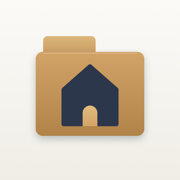
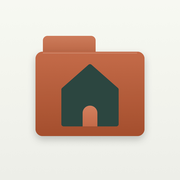
Match the site palette to the app (#7)
Paper F4F5EE, deep green ink 172C27, copper AA5730 for text/links/buttons; dark mode on the app's green-black base; theme-color tags and icons regenerated from the app's new icon. og.jpg and shots/*.jpg still show the old app UI and need recapturing.

Changed region(s): [[0.1944, 0.1944, 0.8056, 0.7778]]

diff --git a/site/assets/styles.css b/site/assets/styles.css
@@ -1,5 +1,5 @@
 /* Know What I Own — shared stylesheet.
-   Palette and motifs follow the app: paper + ink + brass, folder-tab cards,
+   Palette and motifs follow the app (and teamdrybox.com): paper + deep green ink + copper, folder-tab cards,
    dotted leader lines, a double rule under a total.
    Fonts are subsetted (Latin) OFL fonts self-hosted in ./fonts — no external requests. */
 
@@ -16,22 +16,22 @@
 
 :root {
   /* Light (default) — contrast ratios checked against WCAG AA */
-  --page: #F6F5F1;
+  --page: #F4F5EE;
   --card: #FFFFFF;
-  --ink: #1F2A38;          /* 13.3:1 on page */
-  --soft: #5B6875;         /* 5.2:1 on page, 5.7:1 on card */
-  --line: #DDD9CF;
-  --dots: #B7B1A2;         /* decorative only */
-  --tab: #D9C9A3;
-  --tab-ink: #4F4020;      /* on tab */
-  --brass: #A9793F;        /* decorative: rules, borders (never small text) */
-  --brass-text: #8A5E2C;   /* 5.2:1 on page, 5.7:1 on card — small text and links */
-  --btn-bg: #8A5E2C;
-  --btn-bg-hover: #7A5225;
-  --btn-tx: #FFFFFF;       /* 5.7:1 on btn-bg */
-  --frame: #1F2A38;
-  --shadow: 0 1px 0 rgba(31, 42, 56, .04), 0 14px 32px -16px rgba(31, 42, 56, .28);
-  --focus: #8A5E2C;
+  --ink: #172C27;          /* 13.4:1 on page */
+  --soft: #53675F;         /* 5.5:1 on page, 6.0:1 on card */
+  --line: #D1D5CE;
+  --dots: #AEB8B1;         /* decorative only */
+  --tab: #E7EEE5;
+  --tab-ink: #3F554D;      /* on tab */
+  --brass: #B95F35;        /* decorative: rules, borders (never small text) */
+  --brass-text: #AA5730;   /* 4.65:1 on page, 5.1:1 on card — small text and links */
+  --btn-bg: #AA5730;
+  --btn-bg-hover: #944C2A;
+  --btn-tx: #FFFFFF;       /* 5.1:1 on btn-bg */
+  --frame: #172C27;
+  --shadow: 0 1px 0 rgba(23, 44, 39, .04), 0 14px 32px -16px rgba(23, 44, 39, .28);
+  --focus: #AA5730;
 
   --serif: "Zilla Slab", Rockwell, "Roboto Slab", Georgia, "Times New Roman", serif;
   --sans: "Public Sans", -apple-system, BlinkMacSystemFont, "Segoe UI", Roboto, Helvetica, Arial, sans-serif;
@@ -44,22 +44,22 @@
 
 @media (prefers-color-scheme: dark) {
   :root {
-    --page: #1C1B18;
-    --card: #28261F;
-    --ink: #EDEAE2;        /* 14.3:1 on page */
-    --soft: #A39C8E;       /* 6.3:1 on page, 5.5:1 on card */
-    --line: #3D3A30;
-    --dots: #5D5848;
-    --tab: #4A4030;
-    --tab-ink: #E3D3A8;
-    --brass: #C79355;
-    --brass-text: #C79355; /* 6.3:1 on page, 5.6:1 on card */
-    --btn-bg: #C79355;
-    --btn-bg-hover: #D5A26A;
-    --btn-tx: #1C1B18;     /* 6.3:1 on btn-bg */
-    --frame: #0E0D0B;
+    --page: #0F1A17;
+    --card: #17241F;
+    --ink: #EEF1E8;        /* 15.6:1 on page */
+    --soft: #A3B2A9;       /* 8.0:1 on page, 7.3:1 on card */
+    --line: #2C3B35;
+    --dots: #45574F;
+    --tab: #1F332C;
+    --tab-ink: #BFD8CF;
+    --brass: #D9794B;
+    --brass-text: #D9794B; /* 5.75:1 on page, 5.2:1 on card */
+    --btn-bg: #D9794B;
+    --btn-bg-hover: #F0A05F;
+    --btn-tx: #0F1A17;     /* 5.75:1 on btn-bg */
+    --frame: #060D0B;
     --shadow: 0 1px 0 rgba(0, 0, 0, .3), 0 14px 32px -16px rgba(0, 0, 0, .7);
-    --focus: #C79355;
+    --focus: #D9794B;
   }
 }
 

diff --git a/site/index.html b/site/index.html
@@ -7,8 +7,8 @@
   <meta name="description" content="An offline-first iPhone app for documenting your belongings for insurance: properties, rooms, items, photos, a PDF report. No account. One-time purchase.">
   <link rel="canonical" href="https://knowwhatiown.com/">
   <meta name="color-scheme" content="light dark">
-  <meta name="theme-color" content="#F6F5F1" media="(prefers-color-scheme: light)">
-  <meta name="theme-color" content="#1C1B18" media="(prefers-color-scheme: dark)">
+  <meta name="theme-color" content="#F4F5EE" media="(prefers-color-scheme: light)">
+  <meta name="theme-color" content="#0F1A17" media="(prefers-color-scheme: dark)">
   <meta property="og:type" content="website">
   <meta property="og:site_name" content="Know What I Own">
   <meta property="og:title" content="Know What I Own — Home Inventory for Insurance">

diff --git a/site/privacy.html b/site/privacy.html
@@ -7,8 +7,8 @@
   <meta name="description" content="How Know What I Own handles your data: your inventory stays on your device, there is no account or inventory server, and you choose where exports go.">
   <link rel="canonical" href="https://knowwhatiown.com/privacy.html">
   <meta name="color-scheme" content="light dark">
-  <meta name="theme-color" content="#F6F5F1" media="(prefers-color-scheme: light)">
-  <meta name="theme-color" content="#1C1B18" media="(prefers-color-scheme: dark)">
+  <meta name="theme-color" content="#F4F5EE" media="(prefers-color-scheme: light)">
+  <meta name="theme-color" content="#0F1A17" media="(prefers-color-scheme: dark)">
   <meta property="og:type" content="website">
   <meta property="og:site_name" content="Know What I Own">
   <meta property="og:title" content="Privacy Policy — Know What I Own">

diff --git a/site/support.html b/site/support.html
@@ -7,8 +7,8 @@
   <meta name="description" content="Help with Know What I Own: backups, restoring on a new phone, the free limit and one-time unlock, photos, maintenance reminders, and insurance reports.">
   <link rel="canonical" href="https://knowwhatiown.com/support.html">
   <meta name="color-scheme" content="light dark">
-  <meta name="theme-color" content="#F6F5F1" media="(prefers-color-scheme: light)">
-  <meta name="theme-color" content="#1C1B18" media="(prefers-color-scheme: dark)">
+  <meta name="theme-color" content="#F4F5EE" media="(prefers-color-scheme: light)">
+  <meta name="theme-color" content="#0F1A17" media="(prefers-color-scheme: dark)">
   <meta property="og:type" content="website">
   <meta property="og:site_name" content="Know What I Own">
   <meta property="og:title" content="Support — Know What I Own">

diff --git a/site/404.html b/site/404.html
@@ -7,8 +7,8 @@
   <meta name="description" content="This page doesn&#x27;t exist. Head back to Know What I Own, the home inventory app for insurance.">
   <meta name="robots" content="noindex">
   <meta name="color-scheme" content="light dark">
-  <meta name="theme-color" content="#F6F5F1" media="(prefers-color-scheme: light)">
-  <meta name="theme-color" content="#1C1B18" media="(prefers-color-scheme: dark)">
+  <meta name="theme-color" content="#F4F5EE" media="(prefers-color-scheme: light)">
+  <meta name="theme-color" content="#0F1A17" media="(prefers-color-scheme: dark)">
   <meta property="og:type" content="website">
   <meta property="og:site_name" content="Know What I Own">
   <meta property="og:title" content="Page not found — Know What I Own">
